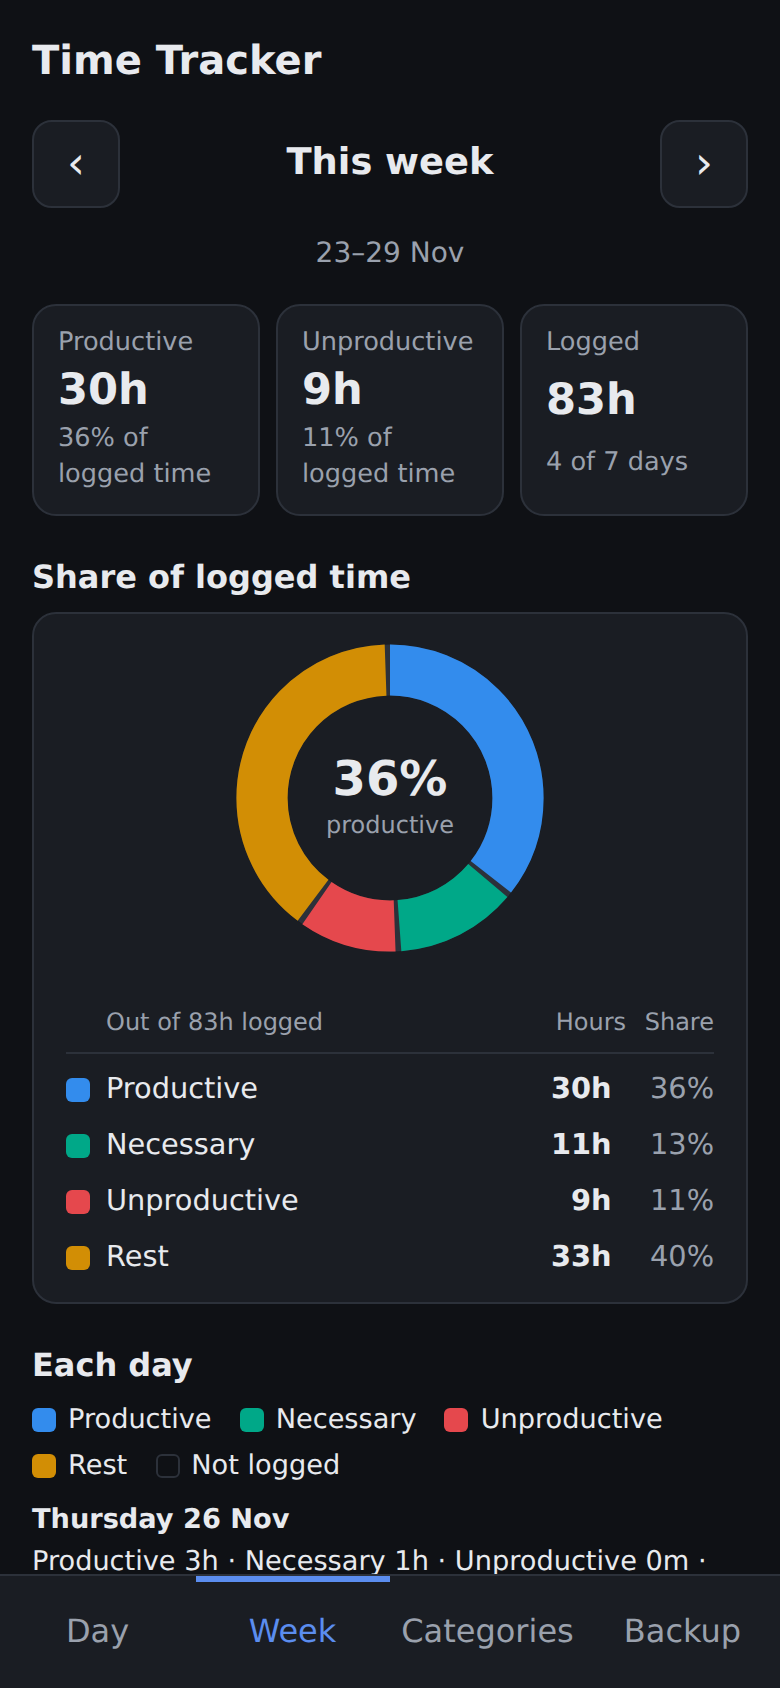
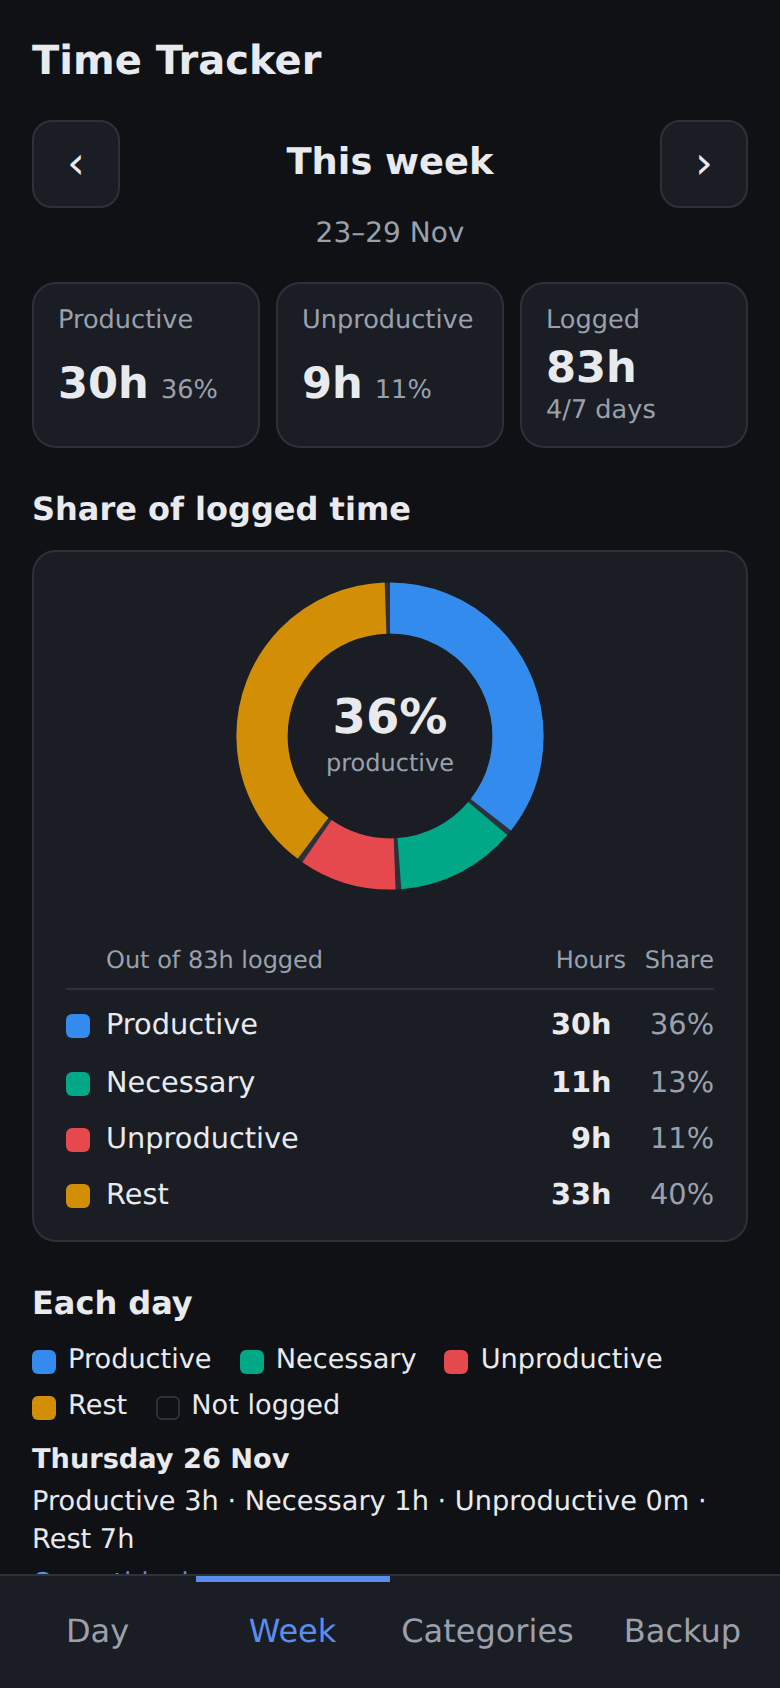
Tidy Day and Week layout
- Day and Week share a header (full date underneath) and a row of
  figure boxes, with the percentage beside each number
- One spacing scale across tabs
- Refresh README screenshots

diff --git a/src/components/WeekView.tsx b/src/components/WeekView.tsx
@@ -11,6 +11,8 @@ import {
 import { useToday } from '../useToday'
 import { KIND_LABEL, KINDS, type Category, type Entry } from '../types'
 import { Donut } from './Donut'
+import { PeriodNav } from './PeriodNav'
+import { StatTiles } from './StatTiles'
 
 interface Props {
   day: string
@@ -55,6 +57,7 @@ export function WeekView({ day, setDay, categories, entries, openDay }: Props) {
   const logged = KINDS.reduce((sum, k) => sum + totals[k], 0)
   const daysLogged = perDay.filter((d) => d.logged > 0).length
 
+  const pct = (m: number) => (logged ? `${Math.round((m / logged) * 100)}%` : undefined)
   const perCategory = [...minutesByCategory(weekEntries)].sort((a, b) => b[1] - a[1])
   const maxCategory = perCategory[0]?.[1] ?? 0
 
@@ -62,42 +65,36 @@ export function WeekView({ day, setDay, categories, entries, openDay }: Props) {
 
   return (
     <section aria-label="Week">
-      <div className="day-nav">
-        <button type="button" className="icon-button" onClick={() => setDay(addDays(monday, -7))} aria-label="Previous week">
-          ‹
-        </button>
-        <span className="day-label">{monday === thisMonday ? 'This week' : weekLabel(monday)}</span>
-        <button type="button" className="icon-button" onClick={() => setDay(addDays(monday, 7))} aria-label="Next week">
-          ›
-        </button>
-      </div>
-      {monday !== thisMonday ? (
-        <button type="button" className="link-button today-button" onClick={() => setDay(today)}>
-          Back to this week
-        </button>
-      ) : (
-        <p className="muted small center">{weekLabel(monday)}</p>
-      )}
+      <PeriodNav
+        title={
+          monday === thisMonday
+            ? 'This week'
+            : monday === addDays(thisMonday, -7)
+              ? 'Last week'
+              : monday === addDays(thisMonday, 7)
+                ? 'Next week'
+                : weekLabel(monday)
+        }
+        subtitle={
+          [thisMonday, addDays(thisMonday, -7), addDays(thisMonday, 7)].includes(monday)
+            ? weekLabel(monday)
+            : monday.slice(0, 4)
+        }
+        prevLabel="Previous week"
+        nextLabel="Next week"
+        onPrev={() => setDay(addDays(monday, -7))}
+        onNext={() => setDay(addDays(monday, 7))}
+        backLabel={monday !== thisMonday ? 'Back to this week' : undefined}
+        onBack={() => setDay(today)}
+      />
 
-      <div className="stats">
-        <div className="stat">
-          <span className="stat-label">Productive</span>
-          <span className="stat-value">{hours(totals.productive)}</span>
-          <span className="stat-sub">{logged ? `${Math.round((totals.productive / logged) * 100)}% of logged time` : '—'}</span>
-        </div>
-        <div className="stat">
-          <span className="stat-label">Unproductive</span>
-          <span className="stat-value">{hours(totals.unproductive)}</span>
-          <span className="stat-sub">{logged ? `${Math.round((totals.unproductive / logged) * 100)}% of logged time` : '—'}</span>
-        </div>
-        <div className="stat">
-          <span className="stat-label">Logged</span>
-          <span className="stat-value">{hours(logged)}</span>
-          <span className="stat-sub">
-            {daysLogged} of 7 days
-          </span>
-        </div>
-      </div>
+      <StatTiles
+        stats={[
+          { label: 'Productive', value: hours(totals.productive), detail: pct(totals.productive) },
+          { label: 'Unproductive', value: hours(totals.unproductive), detail: pct(totals.unproductive) },
+          { label: 'Logged', value: hours(logged), detail: `${daysLogged}/7 days` },
+        ]}
+      />
 
       {logged === 0 ? (
         <p className="empty">Nothing logged this week yet.</p>

diff --git a/src/components/DayView.tsx b/src/components/DayView.tsx
@@ -1,6 +1,8 @@
 import type { CSSProperties } from 'react'
 import { useToday } from '../useToday'
-import { addDays, dayLabel, formatDuration, minutesByCategory, minutesByKind, MINUTES_PER_DAY } from '../time'
+import { addDays, dayLabel, formatDuration, minutesByCategory, minutesByKind, parseISODate } from '../time'
+import { PeriodNav } from './PeriodNav'
+import { StatTiles } from './StatTiles'
 import type { Category, Entry } from '../types'
 
 interface Props {
@@ -34,48 +36,42 @@ export function DayView({ day, setDay, categories, entries, onEdit }: Props) {
   const today = useToday()
 
   const kinds = minutesByKind(dayEntries, (id) => byId.get(id)?.kind)
+  const pct = (m: number) => (total ? `${Math.round((m / total) * 100)}%` : undefined)
   const breakdown = [...minutesByCategory(dayEntries)].sort((a, b) => b[1] - a[1])
 
   return (
     <section aria-label="Day">
-      <div className="day-nav">
-        <button type="button" className="icon-button" onClick={() => setDay(addDays(day, -1))} aria-label="Previous day">
-          ‹
-        </button>
-        <label className="day-picker">
-          <span className="day-label">{dayLabel(day, today)}</span>
-          <input
-            type="date"
-            value={day}
-            onChange={(e) => e.target.value && setDay(e.target.value)}
-            aria-label="Pick a date"
-          />
-        </label>
-        <button type="button" className="icon-button" onClick={() => setDay(addDays(day, 1))} aria-label="Next day">
-          ›
-        </button>
-      </div>
-      {day !== today && (
-        <button type="button" className="link-button today-button" onClick={() => setDay(today)}>
-          Back to today
-        </button>
-      )}
+      <PeriodNav
+        title={dayLabel(day, today)}
+        subtitle={parseISODate(day).toLocaleDateString(undefined, { weekday: 'long', day: 'numeric', month: 'long' })}
+        prevLabel="Previous day"
+        nextLabel="Next day"
+        onPrev={() => setDay(addDays(day, -1))}
+        onNext={() => setDay(addDays(day, 1))}
+        backLabel={day !== today ? 'Back to today' : undefined}
+        onBack={() => setDay(today)}
+        renderTitle={(title) => (
+          <label className="day-picker">
+            {title}
+            <input
+              type="date"
+              value={day}
+              onChange={(e) => e.target.value && setDay(e.target.value)}
+              aria-label="Pick a date"
+            />
+          </label>
+        )}
+      />
+
+      <StatTiles
+        stats={[
+          { label: 'Productive', value: formatDuration(kinds.productive), detail: pct(kinds.productive) },
+          { label: 'Unproductive', value: formatDuration(kinds.unproductive), detail: pct(kinds.unproductive) },
+          { label: 'Logged', value: formatDuration(total), detail: 'of 24h' },
+        ]}
+      />
 
       <div className="day-summary">
-        <p>
-          <strong>{formatDuration(total)}</strong> logged
-          {total > 0 && (
-            <>
-              {' · '}
-              <strong>{formatDuration(kinds.productive)}</strong> productive
-              {' · '}
-              <strong>{formatDuration(kinds.unproductive)}</strong> unproductive
-            </>
-          )}
-          {total < MINUTES_PER_DAY && total > 0 && (
-            <span className="muted"> · {formatDuration(MINUTES_PER_DAY - total)} unlogged</span>
-          )}
-        </p>
         {breakdown.length > 0 && (
           <div className="stack-bar" role="img" aria-label={breakdown.map(([id, m]) => `${byId.get(id)?.name ?? 'Unknown'} ${formatDuration(Math.round(m))}`).join(', ')}>
             {breakdown.map(([id, m]) => (

diff --git a/src/index.css b/src/index.css
@@ -15,6 +15,11 @@
   --warning-bg: #fff4d6;
   --warning-text: #6b4e00;
   --radius: 12px;
+  /* Spacing scale: use these between blocks so every tab has the same rhythm. */
+  --space-xs: 4px;
+  --space-s: 8px;
+  --space-m: 12px;
+  --space-l: 20px;
   --tab-height: 56px;
 }
 
@@ -122,7 +127,7 @@ textarea {
 
 .section-title {
   font-size: 1.1rem;
-  margin: 8px 0 4px;
+  margin: var(--space-s) 0 var(--space-xs);
 }
 
 .tab-bar {
@@ -166,12 +171,29 @@ textarea {
 
 /* Day view */
 
+.period-nav {
+  margin-top: var(--space-s);
+}
+
 .day-nav {
   display: flex;
   align-items: center;
   justify-content: space-between;
-  gap: 8px;
-  margin-top: 8px;
+  gap: var(--space-s);
+}
+
+.nav-sub {
+  margin: var(--space-xs) 0 0;
+  min-height: 1.5em;
+  text-align: center;
+  font-size: 0.875rem;
+}
+
+.link-button.inline {
+  display: inline;
+  min-height: 0;
+  padding: 0;
+  font-size: inherit;
 }
 
 .icon-button {
@@ -208,17 +230,8 @@ textarea {
   min-height: 32px;
 }
 
-.today-button {
-  display: block;
-  margin: 0 auto;
-}
-
 .day-summary {
-  margin: 12px 0;
-}
-
-.day-summary p {
-  margin: 0 0 8px;
+  margin: var(--space-m) 0 var(--space-l);
 }
 
 .stack-bar {
@@ -664,7 +677,7 @@ textarea {
   color: var(--warning-text);
   border-radius: var(--radius);
   padding: 10px 12px;
-  margin: 8px 0;
+  margin: var(--space-s) 0 0;
   font-size: 0.9rem;
 }
 
@@ -680,13 +693,15 @@ textarea {
 
 .stats {
   display: grid;
-  grid-template-columns: repeat(3, 1fr);
-  gap: 8px;
-  margin: 12px 0 16px;
+  grid-template-columns: repeat(3, minmax(0, 1fr));
+  gap: var(--space-s);
+  margin: var(--space-m) 0 0;
 }
 
 .stat {
   display: grid;
+  gap: 2px;
+  min-width: 0;
   background: var(--surface);
   border: 1px solid var(--border);
   border-radius: var(--radius);
@@ -699,19 +714,25 @@ textarea {
 }
 
 .stat-value {
+  display: flex;
+  flex-wrap: wrap;
+  align-items: baseline;
+  column-gap: 6px;
   font-size: 1.35rem;
   font-weight: 700;
   font-variant-numeric: tabular-nums;
+  line-height: 1.2;
 }
 
-.stat-sub {
+.stat-detail {
   font-size: 0.8rem;
+  font-weight: 500;
   color: var(--muted);
 }
 
 .chart-title {
   font-size: 1rem;
-  margin: 20px 0 6px;
+  margin: var(--space-l) 0 var(--space-s);
 }
 
 .legend {

diff --git a/src/components/PeriodNav.tsx b/src/components/PeriodNav.tsx
@@ -1,0 +1,47 @@
+import type { ReactNode } from 'react'
+
+interface Props {
+  title: string
+  /** Line under the title: the full date or date range. */
+  subtitle: string
+  prevLabel: string
+  nextLabel: string
+  onPrev: () => void
+  onNext: () => void
+  /** Shown beside the subtitle when not on the current day/week. */
+  backLabel?: string
+  onBack?: () => void
+  /** Optional wrapper for the title, e.g. a hidden date picker. */
+  renderTitle?: (title: ReactNode) => ReactNode
+}
+
+/** ‹ Title › with a subtitle line. The same height on every tab, so content doesn't jump. */
+export function PeriodNav({ title, subtitle, prevLabel, nextLabel, onPrev, onNext, backLabel, onBack, renderTitle }: Props) {
+  const titleNode = <span className="day-label">{title}</span>
+  return (
+    <div className="period-nav">
+      <div className="day-nav">
+        <button type="button" className="icon-button" onClick={onPrev} aria-label={prevLabel}>
+          ‹
+        </button>
+        {renderTitle ? renderTitle(titleNode) : <span className="day-picker">{titleNode}</span>}
+        <button type="button" className="icon-button" onClick={onNext} aria-label={nextLabel}>
+          ›
+        </button>
+      </div>
+      <p className="nav-sub">
+        <span className="muted">{subtitle}</span>
+        {backLabel && onBack && (
+          <>
+            <span className="muted" aria-hidden="true">
+              {' · '}
+            </span>
+            <button type="button" className="link-button inline" onClick={onBack}>
+              {backLabel}
+            </button>
+          </>
+        )}
+      </p>
+    </div>
+  )
+}

diff --git a/src/components/StatTiles.tsx b/src/components/StatTiles.tsx
@@ -1,0 +1,23 @@
+export interface Stat {
+  label: string
+  value: string
+  /** Short extra shown after the value, e.g. "36%" or "of 24h". */
+  detail?: string
+}
+
+/** A row of three headline figures, shared by the Day and Week views. */
+export function StatTiles({ stats }: { stats: Stat[] }) {
+  return (
+    <div className="stats">
+      {stats.map((s) => (
+        <div key={s.label} className="stat">
+          <span className="stat-label">{s.label}</span>
+          <span className="stat-value">
+            {s.value}
+            {s.detail && <span className="stat-detail">{s.detail}</span>}
+          </span>
+        </div>
+      ))}
+    </div>
+  )
+}
